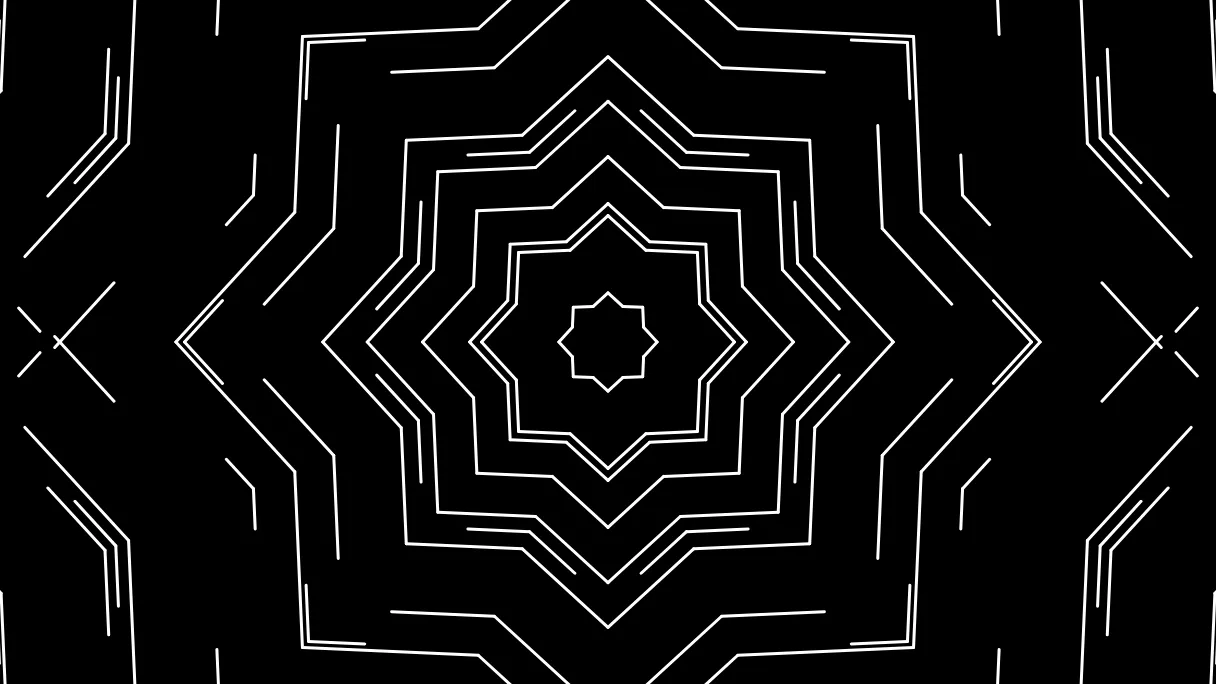
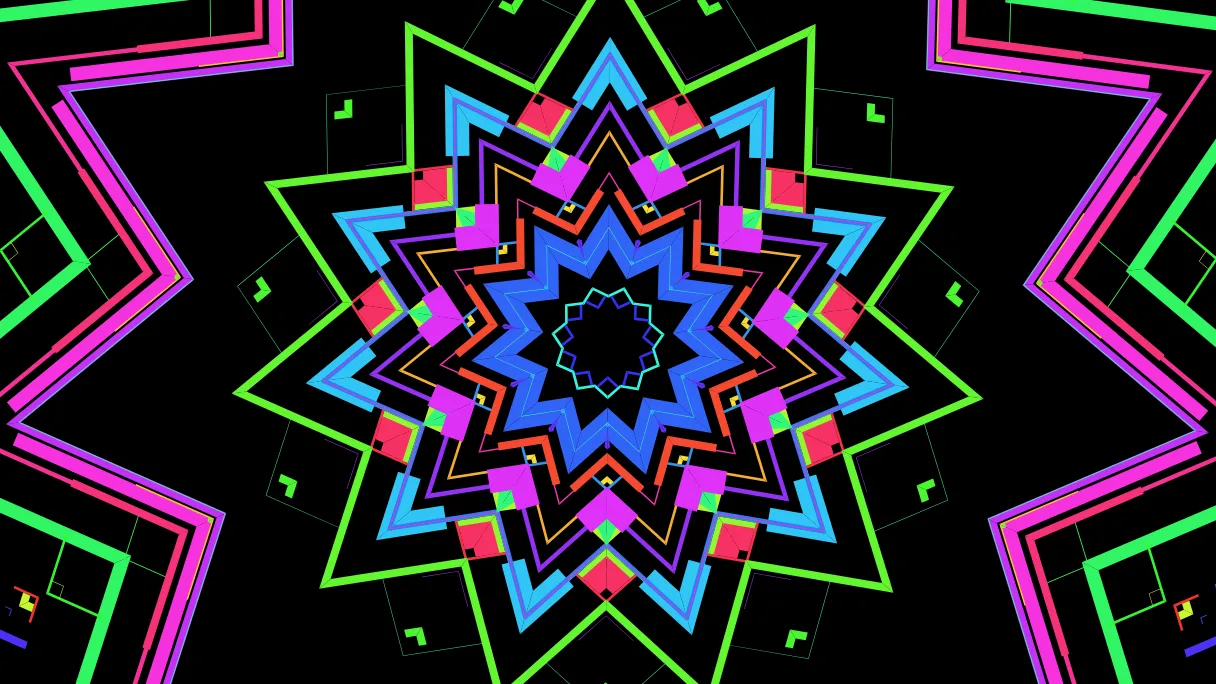
feat(kaleidoscope): vertigo, the primary
Andrei's scene, recorded as he had it with the seed rolled, and promoted to
position one so a bare address, the poster and the note read it. The poster
pins the seed he was looking at.

diff --git a/src/experiments/kaleidoscope/presets.ts b/src/experiments/kaleidoscope/presets.ts
@@ -10,6 +10,40 @@ import type { Settings } from "@/experiments/kaleidoscope/settings"
 
 export const PRESETS: Preset<Settings>[] = [
   {
+    label: "vertigo",
+    hint: "Eleven mirrored segments of straight bars from the sides, every width from hairline to bold. Seven in ten lean out toward the rim and run long; the rest lean in and soon meet their reflections. Each bar lives and dies on its own, so the figure is never still.",
+    settings: {
+      segments: 11,
+      symmetry: "mirror",
+      confine: "free",
+      stops: "any",
+      roots: 48,
+      from: "sides",
+      spread: 1,
+      lean: -42,
+      flip: 0.7,
+      cycle: "each",
+      angle: "90",
+      step: 40,
+      split: 0,
+      turn: 0,
+      keep: 0.2,
+      life: 3,
+      speed: 13,
+      hold: 4.05,
+      spin: 8,
+      width: 0.25,
+      widest: 11.9,
+      taper: 0,
+      hue: 360,
+      tint: 1,
+      hues: 360,
+      colourBy: "family",
+      seed: "roll",
+      timescale: 1,
+    },
+  },
+  {
     label: "banded flower",
     hint: "Lines grow in parallel from the sides of each segment, leaning 20°, and meet their reflections in the middle: bands of chevrons, each band living and dying on its own.",
     settings: {

diff --git a/src/experiments/kaleidoscope/poster.ts b/src/experiments/kaleidoscope/poster.ts
@@ -11,7 +11,8 @@ import type { ExperimentApi } from "@/experiments/kaleidoscope/runner"
  */
 const poster: PosterRecipe<ExperimentApi> = {
   // No preset named, so it captures the primary — what a bare address lands on.
-  settings: { seed: 5 },
+  // The seed of the vertigo Andrei promoted, as he had it on screen.
+  settings: { seed: 942088 },
   prepare: ({ api }) => {
     api.pause(true)
     api.clear()
